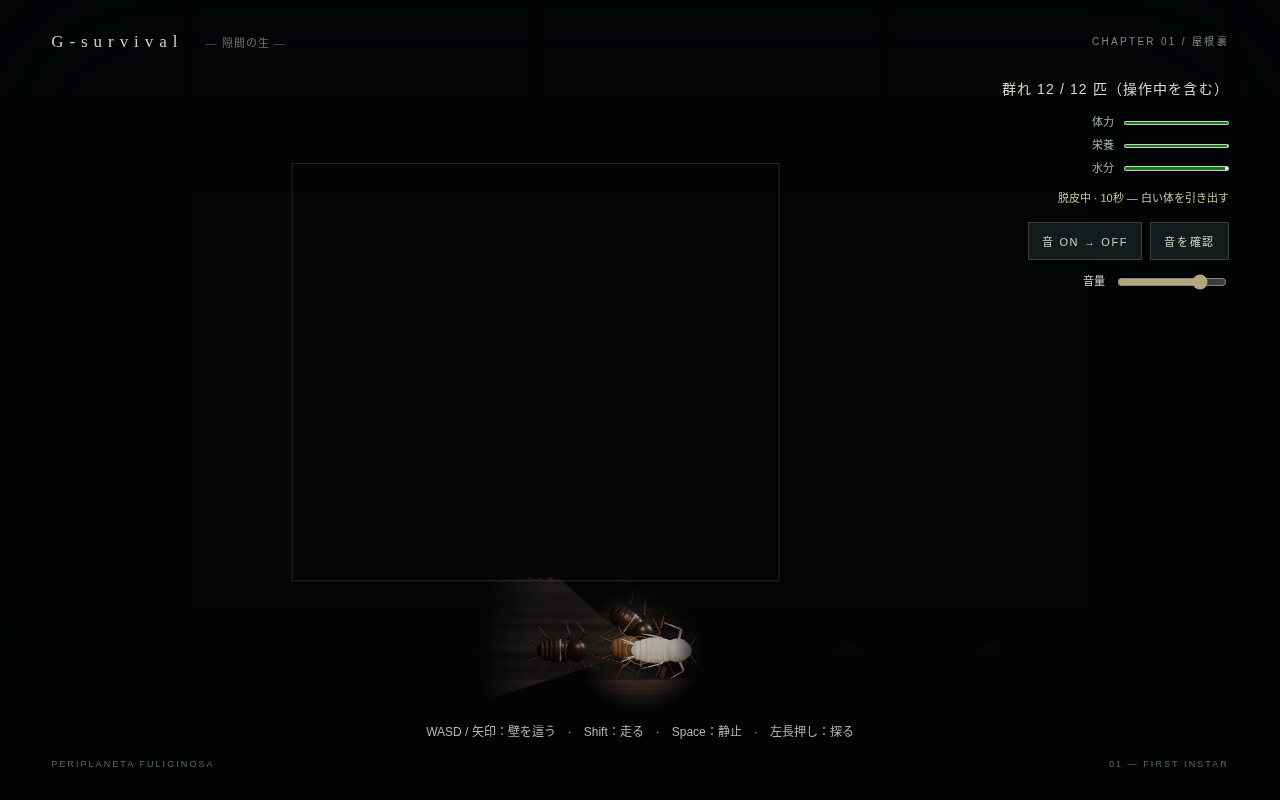
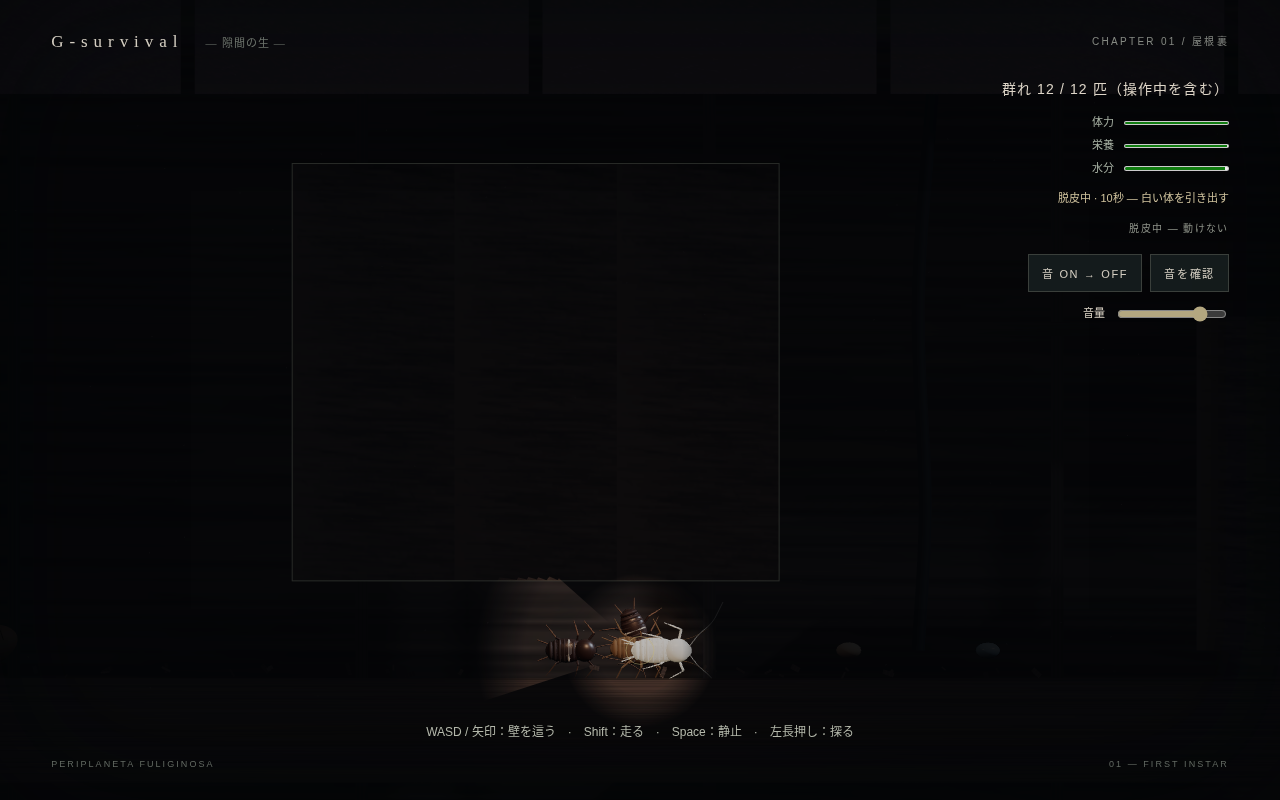
[claude] Clarify loss/mission feedback in HUD and brighten the scene
ガクチョの実プレイを受けた4点。

- 仲間の死亡通知を「Gが{n}体、減りました」に変更。同時消失も実数で出す
- HUD に「脱皮に必要な蓄え」を追加。餌・水を5段階の●○で表示し、
  満ちたら「安全な場所で Space を長押し（3秒）」と明示する
- 覆いの不透明度・可視半径・露出・環境光を上げて全体を明るく。
  調整用定数を darkness() 直前に集約した
- 全滅時のキャプションを「Gの群れは、全滅した。」に変更

verify.sh 全項目 OK。HUD の3状態と文言、明るさの前後(中央域平均輝度
5.03→7.47)を Playwright で実測し artifacts/ に証跡を残した。

Changed region(s): [[0.8125, 0.2812, 0.9688, 0.4062], [0.4375, 0.75, 0.5625, 0.9062]]

diff --git a/src/main.ts b/src/main.ts
@@ -7,13 +7,13 @@ import { MoltVisual } from './molt';
 import { createAnimal, animateAnimal } from './animals';
 
 const app = document.querySelector<HTMLDivElement>('#app')!;
-app.innerHTML = `<canvas id="world"></canvas><canvas id="veil"></canvas><div class="vignette"></div><header><span class="mark">G-survival <small>— 隙間の生 —</small></span><span class="chapter">CHAPTER 01 / 屋根裏</span></header><div id="entry"><div class="eyebrow">A LIFE BENEATH OUR FEET</div><h1>G-survival</h1><h2>— 隙間の生 —</h2><p class="story">あなたは、孵化したばかりのクロゴキブリの幼虫。<br>まだ飛べない。闇の中を、触角と気流を頼りに生きる。</p><p class="goal"><b>第1章：最初の脱皮</b><br>餌と水を探し、安全な隙間へ。<br>満たされた体で Space を3秒押し、20秒間の脱皮を生き延びる。<br>死ねば、どこかで生きている仲間へ。群れの命も、残りわずか。</p><button id="begin">卵から孵る <span>↗</span></button><small>音のある環境で体験してください</small></div><div id="ending" hidden><div class="eyebrow">CHAPTER 01</div><h2></h2><p></p><button id="again">もう一度、孵る ↗</button></div><aside id="hud"><div id="population" aria-live="polite"></div><div id="survival"><label>体力 <meter id="health" min="0" max="1"></meter></label><label>栄養 <meter id="hunger" min="0" max="1"></meter></label><label>水分 <meter id="water" min="0" max="1"></meter></label></div><div id="objective"></div><div class="sound-controls"><button id="sound">音を有効にする</button><button id="test-sound">音を確認</button></div><label class="volume">音量 <input id="volume" aria-label="音量" type="range" min="0" max="1" step="0.05" value="0.8"></label><div id="sound-status" role="status"></div></aside><div id="controls">WASD / 矢印：壁を這う　·　Shift：走る　·　Space：静止　·　左長押し：探る</div><div id="warning" role="status"></div><footer><span>PERIPLANETA FULIGINOSA</span><span>01 — FIRST INSTAR</span></footer>`;
+app.innerHTML = `<canvas id="world"></canvas><canvas id="veil"></canvas><div class="vignette"></div><header><span class="mark">G-survival <small>— 隙間の生 —</small></span><span class="chapter">CHAPTER 01 / 屋根裏</span></header><div id="entry"><div class="eyebrow">A LIFE BENEATH OUR FEET</div><h1>G-survival</h1><h2>— 隙間の生 —</h2><p class="story">あなたは、孵化したばかりのクロゴキブリの幼虫。<br>まだ飛べない。闇の中を、触角と気流を頼りに生きる。</p><p class="goal"><b>第1章：最初の脱皮</b><br>餌と水を探し、安全な隙間へ。<br>満たされた体で Space を3秒押し、20秒間の脱皮を生き延びる。<br>死ねば、どこかで生きている仲間へ。群れの命も、残りわずか。</p><button id="begin">卵から孵る <span>↗</span></button><small>音のある環境で体験してください</small></div><div id="ending" hidden><div class="eyebrow">CHAPTER 01</div><h2></h2><p></p><button id="again">もう一度、孵る ↗</button></div><aside id="hud"><div id="population" aria-live="polite"></div><div id="survival"><label>体力 <meter id="health" min="0" max="1"></meter></label><label>栄養 <meter id="hunger" min="0" max="1"></meter></label><label>水分 <meter id="water" min="0" max="1"></meter></label></div><div id="objective"></div><div id="molt-req"></div><div class="sound-controls"><button id="sound">音を有効にする</button><button id="test-sound">音を確認</button></div><label class="volume">音量 <input id="volume" aria-label="音量" type="range" min="0" max="1" step="0.05" value="0.8"></label><div id="sound-status" role="status"></div></aside><div id="controls">WASD / 矢印：壁を這う　·　Shift：走る　·　Space：静止　·　左長押し：探る</div><div id="warning" role="status"></div><footer><span>PERIPLANETA FULIGINOSA</span><span>01 — FIRST INSTAR</span></footer>`;
 const renderer = new THREE.WebGLRenderer({canvas:document.querySelector('#world')!,antialias:true});
 renderer.setPixelRatio(Math.min(devicePixelRatio,2)); renderer.shadowMap.enabled=true; renderer.shadowMap.type=THREE.PCFSoftShadowMap;
-renderer.toneMapping=THREE.ACESFilmicToneMapping; renderer.toneMappingExposure=1.25;
+renderer.toneMapping=THREE.ACESFilmicToneMapping; renderer.toneMappingExposure=1.4;
 const scene=new THREE.Scene(); scene.background=new THREE.Color('#111317'); scene.fog=new THREE.FogExp2('#111317',.018);
 const camera=new THREE.OrthographicCamera(-14,14,8,-8,.1,100); camera.position.set(9,5,30); camera.lookAt(9,5,0);
-scene.add(new THREE.HemisphereLight('#b1becb','#302322',2));
+scene.add(new THREE.HemisphereLight('#b1becb','#302322',2.4));
 const moon=new THREE.DirectionalLight('#c0cee0',3);moon.position.set(20,16,10);moon.castShadow=true;moon.shadow.mapSize.set(2048,2048);moon.shadow.camera.left=-60;moon.shadow.camera.right=60;moon.shadow.camera.top=20;moon.shadow.camera.bottom=-20;scene.add(moon);
 const warm=new THREE.PointLight('#cc9c78',20,16);warm.position.set(5,3,5);scene.add(warm);
 function texture(kind:'wood'|'pink'){
@@ -62,12 +62,14 @@ let aim={x:5,y:1};const remembered=new Set<number>();
 function reach(x:number,y:number,dx:number,dy:number,max:number){for(let t=.12;t<max;t+=.12){const px=x+dx*t,py=y+dy*t;if(OBSTACLES.some(o=>px>o.x&&px<o.x+o.w&&py>o.y&&py<o.y+o.h))return t;}return max;}
 function sense(){return .4+.6*Math.min(game.hunger,game.water);}
 function visible(x:number,y:number){const dx=x-game.player.x,dy=y-game.player.y,dist=Math.hypot(dx,dy);if(dist<.65*sense())return true;const a=Math.atan2(dy,dx),target=Math.atan2(aim.y-game.player.y,aim.x-game.player.x);const delta=Math.atan2(Math.sin(a-target),Math.cos(a-target));return Math.abs(delta)<(probe?.87:.52)&&dist<(probe?4:2.4)*sense()&&reach(game.player.x,game.player.y,Math.cos(a),Math.sin(a),dist)>=dist-.15;}
+// 明るさ調整。VEIL_ALPHA を下げる / 他を上げると全体が明るくなる。ガクチョの体感で詰める値。
+const VEIL_ALPHA=.88,NEAR_SPAN=1.25,NEAR_MID=.97,FAN_CORE=.97,FAN_MID=.8;
 function darkness(){
- ctx.clearRect(0,0,veil.width,veil.height);ctx.fillStyle='rgba(3,5,7,.985)';ctx.fillRect(0,0,veil.width,veil.height);
- const p=project(game.player.x,game.player.y),scale=innerHeight/11.5,radius=scale*.9*sense();
- ctx.globalCompositeOperation='destination-out';const near=ctx.createRadialGradient(p.x,p.y,0,p.x,p.y,radius);near.addColorStop(0,'rgba(0,0,0,1)');near.addColorStop(.55,'rgba(0,0,0,.92)');near.addColorStop(1,'transparent');ctx.fillStyle=near;ctx.fillRect(p.x-radius,p.y-radius,2*radius,2*radius);
+ ctx.clearRect(0,0,veil.width,veil.height);ctx.fillStyle=`rgba(3,5,7,${VEIL_ALPHA})`;ctx.fillRect(0,0,veil.width,veil.height);
+ const p=project(game.player.x,game.player.y),scale=innerHeight/11.5,radius=scale*.9*NEAR_SPAN*sense();
+ ctx.globalCompositeOperation='destination-out';const near=ctx.createRadialGradient(p.x,p.y,0,p.x,p.y,radius);near.addColorStop(0,'rgba(0,0,0,1)');near.addColorStop(.55,`rgba(0,0,0,${NEAR_MID})`);near.addColorStop(1,'transparent');ctx.fillStyle=near;ctx.fillRect(p.x-radius,p.y-radius,2*radius,2*radius);
  const angle=Math.atan2(aim.y-game.player.y,aim.x-game.player.x),range=(probe?4:2.4)*sense(),spread=probe?.87:.52;
- const g=ctx.createRadialGradient(p.x,p.y,0,p.x,p.y,range*scale);g.addColorStop(0,'rgba(0,0,0,.9)');g.addColorStop(.7,'rgba(0,0,0,.65)');g.addColorStop(1,'transparent');ctx.fillStyle=g;ctx.beginPath();ctx.moveTo(p.x,p.y);for(let i=0;i<=50;i++){const a=angle-spread+spread*2*i/50;const r=reach(game.player.x,game.player.y,Math.cos(a),Math.sin(a),range);const q=project(game.player.x+Math.cos(a)*r,game.player.y+Math.sin(a)*r);ctx.lineTo(q.x,q.y);}ctx.closePath();ctx.fill();ctx.globalCompositeOperation='source-over';
+ const g=ctx.createRadialGradient(p.x,p.y,0,p.x,p.y,range*scale);g.addColorStop(0,`rgba(0,0,0,${FAN_CORE})`);g.addColorStop(.7,`rgba(0,0,0,${FAN_MID})`);g.addColorStop(1,'transparent');ctx.fillStyle=g;ctx.beginPath();ctx.moveTo(p.x,p.y);for(let i=0;i<=50;i++){const a=angle-spread+spread*2*i/50;const r=reach(game.player.x,game.player.y,Math.cos(a),Math.sin(a),range);const q=project(game.player.x+Math.cos(a)*r,game.player.y+Math.sin(a)*r);ctx.lineTo(q.x,q.y);}ctx.closePath();ctx.fill();ctx.globalCompositeOperation='source-over';
  OBSTACLES.forEach((o,i)=>{if([[o.x-.1,o.y],[o.x+o.w+.1,o.y],[o.x,o.y+o.h+.1],[o.x+o.w/2,o.y-.1]].some(([x,y])=>visible(x,y)))remembered.add(i);if(remembered.has(i)){const a=project(o.x,o.y+o.h),b=project(o.x+o.w,o.y);ctx.strokeStyle='rgba(157,164,149,.23)';ctx.lineWidth=1;ctx.strokeRect(a.x,a.y,b.x-a.x,b.y-a.y);}});
  checkpointModels.forEach((m,i)=>{const c=game.checkpoints[i];if(visible(c.x,c.y)){const q=project(c.x,c.y);ctx.strokeStyle='rgba(195,181,123,.5)';ctx.beginPath();ctx.arc(q.x,q.y,14,0,Math.PI*2);ctx.stroke();}});
  const d=game.danger.strength;if(d>0){const dx=game.danger.x-game.player.x,dy=game.danger.y-game.player.y;const a=Math.atan2(-dy,dx);const k=Math.min(innerWidth/2/Math.max(.01,Math.abs(Math.cos(a))),innerHeight/2/Math.max(.01,Math.abs(Math.sin(a))));const x=innerWidth/2+Math.cos(a)*k,y=innerHeight/2+Math.sin(a)*k;const glow=ctx.createRadialGradient(x,y,0,x,y,170);glow.addColorStop(0,`rgba(184,201,209,${Math.min(.6,d*.6)})`);glow.addColorStop(1,'transparent');ctx.fillStyle=glow;ctx.fillRect(0,0,innerWidth,innerHeight);}
@@ -79,8 +81,11 @@ const population=document.querySelector<HTMLElement>('#population')!,soundButton
 document.querySelector('#test-sound')!.addEventListener('click',e=>{void audio.test();(e.currentTarget as HTMLButtonElement).blur();});soundButton.addEventListener('click',()=>{void audio.toggle();soundButton.blur();});
 document.querySelector<HTMLInputElement>('#volume')!.addEventListener('input',e=>audio.setVolume(Number((e.target as HTMLInputElement).value)));
 let lastX=game.player.x,lastY=game.player.y,bodyHeading=0,lastPopulation=game.siblings.length+1;
-let lossNotice=0;
+let lossNotice=0,lossCount=0;
 const objective=document.querySelector<HTMLElement>('#objective')!;
+const moltReq=document.querySelector<HTMLElement>('#molt-req')!;let lastReqHtml='';
+const MOLT_NEED=.85; // simulation.ts の moltReady と同じしきい値
+const marks=(v:number)=>{const f=Math.floor(Math.min(1,v/MOLT_NEED)*5);return '●'.repeat(f)+'○'.repeat(5-f);};
 let previous=performance.now(),accumulator=0;function frame(now:number){requestAnimationFrame(frame);const dt=Math.min((now-previous)/1000,.25);previous=now;
  const p=game.player;camera.position.x+=((started?p.x:4)-camera.position.x)*Math.min(1,dt*3);camera.position.y=4.6+Math.sin(now*.055)*game.humanEvent*.08;camera.updateMatrixWorld();const v=new THREE.Vector3(mouse.x/innerWidth*2-1,1-mouse.y/innerHeight*2,0).unproject(camera);aim={x:v.x,y:v.y};
  const input={x:Number(keys.has('KeyD')||keys.has('ArrowRight'))-Number(keys.has('KeyA')||keys.has('ArrowLeft')),y:Number(keys.has('KeyW')||keys.has('ArrowUp'))-Number(keys.has('KeyS')||keys.has('ArrowDown')),sprint:keys.has('ShiftLeft')||keys.has('ShiftRight'),freeze:keys.has('Space'),probe,aimX:aim.x,aimY:aim.y};
@@ -91,11 +96,13 @@ let previous=performance.now(),accumulator=0;function frame(now:number){requestA
  if(!game.molting){const look=Math.atan2(aim.y-p.y,aim.x-p.x)-bodyHeading;(hero.userData.feelers as THREE.Group[]).forEach((f,i)=>f.rotation.z=THREE.MathUtils.clamp(Math.atan2(Math.sin(look),Math.cos(look)),-1.2,1.2)+Math.sin(now*.003+i)*.06);}
  population.textContent=`群れ ${game.siblings.filter(s=>s.alive).length+(game.state==='lost'?0:1)} / ${game.siblings.length+1} 匹（操作中を含む）`;
  soundButton.textContent=audio.muted?'音 OFF → ON':audio.status==='running'?'音 ON → OFF':'音を有効にする';soundStatus.textContent=audio.status==='unavailable'?'音声を開始できません。別ブラウザーでもお試しください。':audio.status==='suspended'?'音が停止中です。「音を有効にする」を押してください。':'';
- const populationNow=game.siblings.filter(s=>s.alive).length+(game.state==='lost'?0:1);if(populationNow<lastPopulation)lossNotice=3;lastPopulation=populationNow;lossNotice=Math.max(0,lossNotice-dt);
- warningLabel.textContent=started&&hatchTime<4?'卵鞘の裂け目から、小さな命が這い出す。':game.antAttack>0?`アリが群がっている — 離れないと捕食される ${Math.max(0,3-game.antAttack).toFixed(1)}秒`:game.water<.12?'水が尽きかけている — 水滴を探す':game.hunger<.12?'体が弱っている — 餌を探す':lossNotice>0?'白い帯がひとつ、消えた。':'';
+ const populationNow=game.siblings.filter(s=>s.alive).length+(game.state==='lost'?0:1);if(populationNow<lastPopulation){lossNotice=3;lossCount=lastPopulation-populationNow;}lastPopulation=populationNow;lossNotice=Math.max(0,lossNotice-dt);
+ warningLabel.textContent=started&&hatchTime<4?'卵鞘の裂け目から、小さな命が這い出す。':game.antAttack>0?`アリが群がっている — 離れないと捕食される ${Math.max(0,3-game.antAttack).toFixed(1)}秒`:game.water<.12?'水が尽きかけている — 水滴を探す':game.hunger<.12?'体が弱っている — 餌を探す':lossNotice>0?`Gが${lossCount}体、減りました`:'';
  for(const key of ['health','hunger','water'] as const)(document.querySelector('#'+key) as HTMLMeterElement).value=game[key];
  const zone=p.x<12?'孵化地点':p.x<27?'梁の回廊':p.x<42?'開けた床板':p.x<57?'配線の森':p.x<82?'餌場':'奥の隙間';
  objective.textContent=game.state==='won'?'第1章 完了 — 最初の脱皮':game.molting?`脱皮中 · ${Math.ceil((1-game.moltProgress)*20)}秒 — ${game.moltProgress<.2?'背中が裂ける':game.moltProgress<.6?'白い体を引き出す':game.moltProgress<.9?'脚と触角を抜く':'新しい体を伸ばす'}`:game.moltReady?'安全な隙間で Space を3秒長押し':`${zone} · 餌と水を探す`;
+ const reqHtml=game.state==='won'?'<div class="req-title">脱皮 完了</div>':game.molting?'<div class="req-title">脱皮中 — 動けない</div>':`<div class="req-title">脱皮に必要な蓄え</div><div class="req-row"><span>餌</span><b>${marks(game.hunger)}</b></div><div class="req-row"><span>水</span><b>${marks(game.water)}</b></div><div class="req-hint">${game.moltReady?'準備ができました — 安全な場所で Space を長押し（3秒）':game.hunger>=MOLT_NEED&&game.water>=MOLT_NEED?'体力が足りない — 糞の山で休む':'餌と水を集めて、印を全部埋める'}</div>`;
+ if(reqHtml!==lastReqHtml){moltReq.innerHTML=reqHtml;lastReqHtml=reqHtml;}moltReq.classList.toggle('ready',game.moltReady);
  solids.forEach((m,i)=>{m.rotation.z=Math.sin(now*.04+i)*game.humanEvent*.002;});
  kin.forEach((m,i)=>{const s=game.siblings[i];m.visible=!!s&&s.alive&&visible(s.x,s.y);if(s){const kdx=s.x-m.position.x,kdy=s.y-m.position.y;const kh=Math.hypot(kdx,kdy)>.001?Math.atan2(kdy,kdx):m.rotation.z;m.position.set(s.x,s.y,1.35);if(hatchTime<4){m.position.set(4+Math.cos(i*2.4)*hatchTime*.6,1+Math.abs(Math.sin(i*2.4))*hatchTime*.5,1.35);m.visible=started&&hatchTime>i*.18;}animateAnimal(m,now/1000+i*.3,Math.hypot(kdx,kdy)/Math.max(dt,.001),kh);}});
  predators.forEach((m,i)=>{const s=game.spiders[i];m.visible=!!s&&visible(s.x,s.y);if(s){m.position.set(s.x,s.y,1.4);animateAnimal(m,now/1000,s.state==="warning"?0:1,s.angle);m.scale.y=m.userData.baseScale*(s.state==="warning"?.72:1);m.position.z=s.state==="attack"?1.7:1.4;}});
@@ -106,7 +113,7 @@ let previous=performance.now(),accumulator=0;function frame(now:number){requestA
  warm.position.x=p.x;warm.position.y=p.y+2;warm.intensity=game.moltProgress>0?32:12;
  audio.update(dt,{speed:started&&!ended?travel/Math.max(dt,.001):0,danger:game.danger.strength,pan:Math.sign(game.danger.x-p.x),molting:game.molting,stamina:game.stamina,human:game.humanEvent,ants:game.antAttack,vertical:(game.danger.y-p.y),loss:lossNotice>2.9});
  renderer.render(scene,camera);darkness();
- if(started&&!ended&&game.state!=='playing'){ended=true;const end=document.querySelector<HTMLElement>('#ending')!;end.hidden=false;end.querySelector('h2')!.textContent=game.state==='won'?'まだ、生きている。':'闇が、静かになった。';end.querySelector('p')!.textContent=game.state==='won'?'はじめての脱皮を終えた。':'白い帯は、もう動かない。';}
+ if(started&&!ended&&game.state!=='playing'){ended=true;const end=document.querySelector<HTMLElement>('#ending')!;end.hidden=false;end.querySelector('h2')!.textContent=game.state==='won'?'まだ、生きている。':'闇が、静かになった。';end.querySelector('p')!.textContent=game.state==='won'?'はじめての脱皮を終えた。':'Gの群れは、全滅した。';}
 }requestAnimationFrame(frame);
 
 

diff --git a/src/style.css b/src/style.css
@@ -4,3 +4,12 @@
 #hud{position:fixed;right:4vw;top:78px;text-align:right;font:12px/1.6 sans-serif;color:#ddd5c7}#population{letter-spacing:.08em;font-size:14px}.sound-controls{display:flex;gap:8px;justify-content:flex-end}.sound-controls button{font:11px sans-serif;min-width:0;padding:10px 13px;margin-top:14px;background:#172020d9}.sound-controls button:hover{background:#35433b}#sound-status{max-width:290px;color:#d5b784;font-size:11px;margin-top:6px}#controls{position:fixed;bottom:56px;left:4vw;right:4vw;font:12px/1.8 sans-serif;color:#b4b8ab;text-align:center;pointer-events:none}#warning{position:fixed;bottom:96px;left:12vw;right:12vw;text-align:center;font:14px/1.8 sans-serif;color:#efd1a5;background:#17120bbb;pointer-events:none}#warning:empty{display:none}
 h1{font-family:Georgia,serif;letter-spacing:.04em;margin:12px 0;font-size:clamp(44px,6vw,76px)}#entry h2{font-size:18px;margin:0 0 20px;letter-spacing:.25em}#entry{max-width:690px;left:8vw}#entry p{font-size:12px;line-height:2}.goal{border-left:2px solid #9b8357;padding-left:18px}.goal b{color:#ded2b8}#entry button{margin-top:20px}.mark small{display:inline;font-size:11px;margin-left:12px}.volume{display:flex;gap:10px;justify-content:flex-end;align-items:center;margin-top:12px;font-size:11px}.volume input{width:110px;accent-color:#b3a780}
 #survival{display:grid;gap:5px;margin-top:14px}#survival label{display:flex;align-items:center;gap:10px;justify-content:flex-end;font-size:11px;color:#a9b3a5}meter{width:105px;height:9px}#objective{font:11px/1.7 sans-serif;color:#d0c39e;max-width:290px;margin-top:12px}
+
+#molt-req{margin-top:12px;font:11px/1.7 sans-serif;color:#c9bfa0;max-width:290px}
+.req-title{color:#8d9288;letter-spacing:.14em;font-size:10px;margin-bottom:3px}
+.req-row{display:flex;justify-content:flex-end;align-items:center;gap:10px}
+.req-row span{color:#98a094;font-size:10px;letter-spacing:.1em}
+.req-row b{letter-spacing:.3em;color:#d8c48a;font-weight:400;font-size:13px;min-width:96px;text-align:right}
+.req-hint{margin-top:6px;color:#96a08f;font-size:10px;line-height:1.7;letter-spacing:.04em}
+#molt-req.ready .req-row b{color:#fff1c6}
+#molt-req.ready .req-hint{color:#f2dea9}
